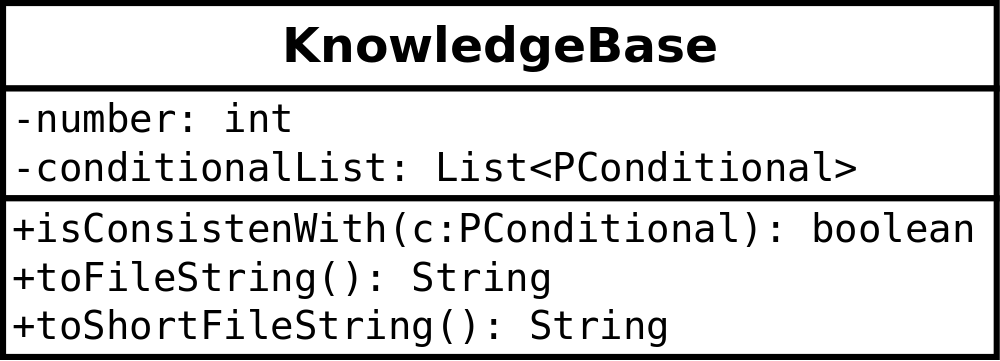
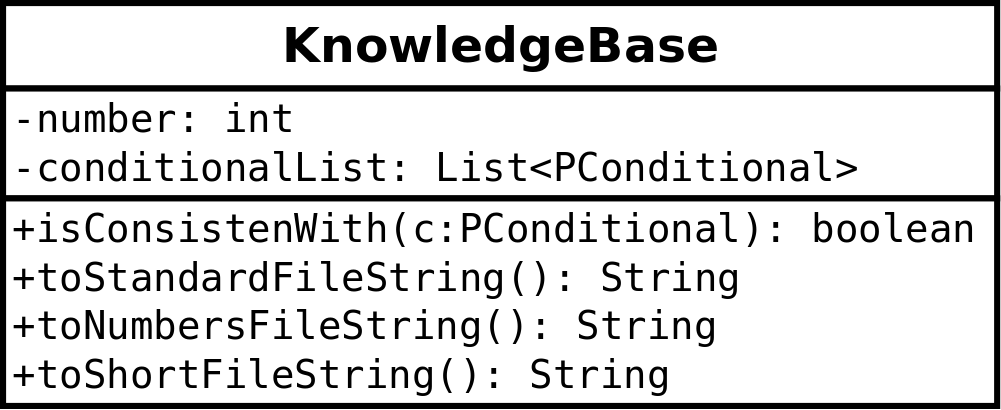
new knowledge base diagram

Changed region(s): [[0.0, 0.0, 1.0, 1.0]]

diff --git a/ma.tex b/ma.tex
@@ -227,7 +227,7 @@ Im zweiten Teil dieser Arbeit findet dann die eigentliche Generierung der Wissen
 
 
 \subsection{Voraussetzungen}
-todo: hier java version und KEINE benötigten biblioteken außer standard reinschreiben.t st
+todo: hier java version und KEINE benötigten biblioteken außer standard reinschreiben.
 
 \subsection{Überblick über das Programm}
 todo: hier diagramme die eine übersicht zu dem ganzen kram zeigen?!
@@ -666,7 +666,9 @@ tests mit translator: translated ca 245s ohne translation etwa 270s.
 mit beiden varianten im objekt auch etwa 270s !! liegt das an der objektgröße?! muss ja \\
 also translation nur sinnvoll, wenn so geschrieben werden kann.
 \subsection{Wissensbasen}
-todo: add toNumbersFilestring and toStandardFileString (in diagram und in beschreibung nächstes todo)
+
+
+
 \begin{figure}
 \includegraphics[width=0.45\linewidth]{bilder/KnowledgeBase.png}
 \caption{Klassendiagramm KnowledgeBase}
